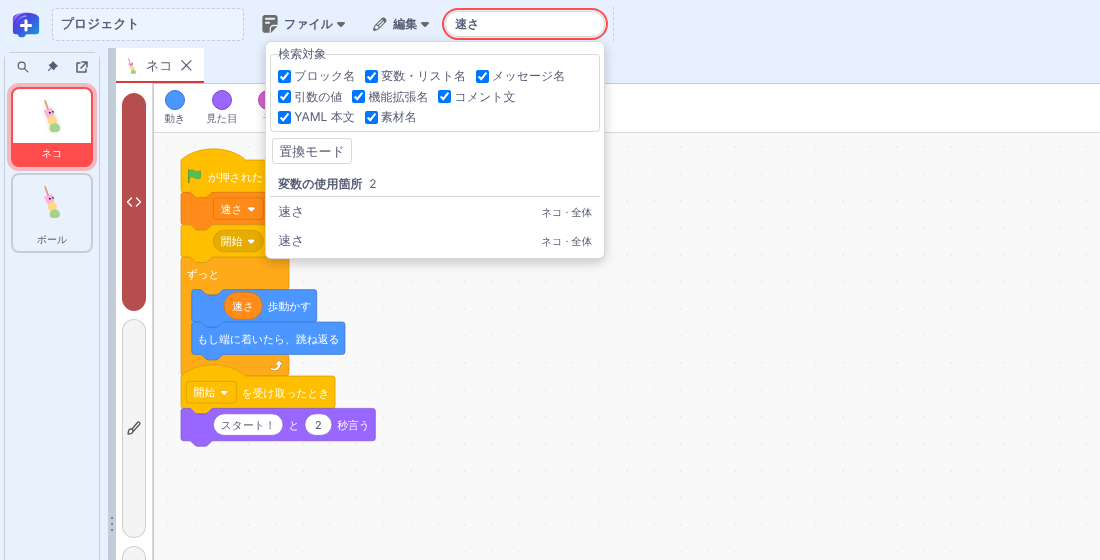
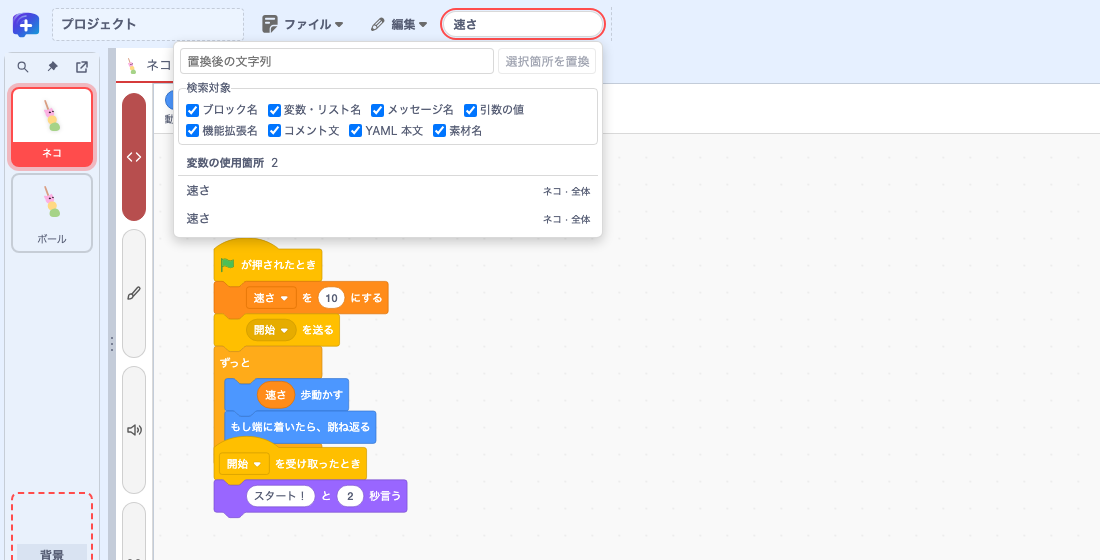
refactor(editor): 検索欄と検索ダイアログを1つのパネルに統合する (#415)
メニューバーの検索欄と編集メニューの「検索と置換」を1つのパネルに統合する。
置換モードのトグルを廃して置換欄を常設し、結果を選ぶと移動したうえでパネルを
開いたままにする。ショートカットは⌘F／⇧⌘F（WindowsはCtrl+F／Ctrl+Shift+F）。

diff --git a/packages/editor-ui/src/project-search-box.tsx b/packages/editor-ui/src/project-search-box.tsx
@@ -26,6 +26,7 @@ type SearchBoxProps = {
     replace(result: SearchResult, value: string): Promise<ReplaceOutcome>;
 };
 
+const pickMatch: [string, string] = ['置換する項目を一覧から選んでください。', 'Select a match in the list to replace.'];
 const replaceMessages: Record<ReplaceOutcome, [string, string]> = {
     applied: ['置換しました。', 'Replaced.'],
     staged: ['YAML の置換内容を確認してください。', 'Review the replacement in the YAML preview.'],
@@ -39,7 +40,6 @@ function ProjectSearchBox({locale, project, getMessages, documents, select, repl
     const japanese = /^ja(?:-|$)/i.test(locale);
     const [query, setQuery] = React.useState('');
     const [open, setOpen] = React.useState(false);
-    const [replaceMode, setReplaceMode] = React.useState(false);
     const [replacement, setReplacement] = React.useState('');
     const [outcome, setOutcome] = React.useState<ReplaceOutcome>();
     const [replacing, setReplacing] = React.useState(false);
@@ -48,8 +48,11 @@ function ProjectSearchBox({locale, project, getMessages, documents, select, repl
     const [active, setActive] = React.useState<SearchResult>();
     const [kinds, setKinds] = React.useState(() => new Set(filters.flatMap(filter => filter.kinds)));
     const input = React.useRef<HTMLInputElement>();
+    const box = React.useRef<HTMLDivElement>();
     const popup = React.useRef<HTMLDivElement>();
+    const replaceField = React.useRef<HTMLInputElement>();
     const replacingMatch = React.useRef(false);
+    const revealing = React.useRef(0);
     const searchYaml = open && kinds.has('yaml') && Boolean(query.trim());
     const yamlDocuments = React.useMemo(() => searchYaml ? documents?.getSearchableYamlDocuments() ?? [] : [],
         [searchYaml, documents, revision]);
@@ -78,9 +81,23 @@ function ProjectSearchBox({locale, project, getMessages, documents, select, repl
             field.select();
         };
         const openReplace = () => {
-            setReplaceMode(true);
             setOpen(true);
-            focusSearch();
+            if (!field.value.trim()) {
+                focusSearch();
+                return;
+            }
+            // The popup may mount in this update, so wait for it before reaching into it.
+            const focusReplacement = (retries: number) => {
+                const target = replaceField.current;
+                if (!target) {
+                    if (retries) win.requestAnimationFrame(() => focusReplacement(retries - 1));
+                    else focusSearch();
+                    return;
+                }
+                target.focus();
+                target.select();
+            };
+            win.requestAnimationFrame(() => focusReplacement(2));
         };
         const disconnectReplace = connectProjectReplaceOpener(project, openReplace);
         const shortcut = (event: KeyboardEvent) => {
@@ -107,7 +124,7 @@ function ProjectSearchBox({locale, project, getMessages, documents, select, repl
         const win = field.ownerDocument.defaultView;
         const place = () => {
             const rect = field.getBoundingClientRect();
-            const width = Math.min(replaceMode ? 430 : 340, win.innerWidth - 16);
+            const width = Math.min(430, win.innerWidth - 16);
             const below = win.innerHeight - rect.bottom - 12;
             const above = rect.top - 12;
             const placeBelow = below >= 160 || below >= above;
@@ -115,20 +132,29 @@ function ProjectSearchBox({locale, project, getMessages, documents, select, repl
             panel.style.left = `${Math.max(8, Math.min(rect.right - width, win.innerWidth - width - 8))}px`;
             panel.style.top = placeBelow ? `${rect.bottom + 4}px` : 'auto';
             panel.style.bottom = placeBelow ? 'auto' : `${win.innerHeight - rect.top + 4}px`;
-            panel.style.maxHeight = `${Math.min(replaceMode ? 450 : 320, placeBelow ? below : above)}px`;
+            panel.style.maxHeight = `${Math.min(450, placeBelow ? below : above)}px`;
         };
         place();
         if (panel.showPopover && !panel.matches(':popover-open')) panel.showPopover();
+        // Revealing a result keeps the panel open, so a press anywhere else has to dismiss it:
+        // blur cannot tell the editor taking focus from the reader turning to something else.
+        const dismiss = (event: Event) => {
+            const target = event.target as Node;
+            if (box.current?.contains(target) || panel.contains(target)) return;
+            close();
+        };
         const observer = new win.ResizeObserver(place);
         observer.observe(field);
+        win.addEventListener('pointerdown', dismiss, true);
         win.addEventListener('resize', place);
         win.addEventListener('scroll', place, true);
         return () => {
             observer.disconnect();
+            win.removeEventListener('pointerdown', dismiss, true);
             win.removeEventListener('resize', place);
             win.removeEventListener('scroll', place, true);
         };
-    }, [show, replaceMode]);
+    }, [show]);
 
     React.useLayoutEffect(() => {
         if (activeIndex >= 0) input.current.ownerDocument.getElementById(optionId(activeIndex))?.scrollIntoView({block: 'nearest'});
@@ -139,12 +165,23 @@ function ProjectSearchBox({locale, project, getMessages, documents, select, repl
         setActive(undefined);
     }
 
+    function reveal(result: SearchResult) {
+        const win = input.current.ownerDocument.defaultView;
+        // Revealing a result moves the editor, and a YAML preview takes focus when it opens. Keep
+        // the panel open through that so the same result is still the one the replacement applies
+        // to, and leave focus wherever the destination put it.
+        revealing.current += 1;
+        select(result);
+        win.setTimeout(() => { revealing.current -= 1; }, 1000);
+    }
+
     function choose(result: SearchResult) {
-        if (replaceMode) {
-            setActive(result);
-            setOutcome(undefined);
-            return;
-        }
+        setActive(result);
+        setOutcome(undefined);
+        reveal(result);
+    }
+
+    function jump(result: SearchResult) {
         close();
         select(result);
     }
@@ -173,8 +210,8 @@ function ProjectSearchBox({locale, project, getMessages, documents, select, repl
         }
     }
 
-    return <div className={styles.field} onBlur={event => {
-        if (!replacingMatch.current && !event.currentTarget.contains(event.relatedTarget) &&
+    return <div ref={box} className={styles.field} onBlur={event => {
+        if (!replacingMatch.current && !revealing.current && !event.currentTarget.contains(event.relatedTarget) &&
             !popup.current?.contains(event.relatedTarget)) close();
     }}>
         <input ref={input} type="search" role="combobox" autoComplete="off" aria-autocomplete="list"
@@ -200,10 +237,10 @@ function ProjectSearchBox({locale, project, getMessages, documents, select, repl
                     event.preventDefault();
                     close();
                 } else if (event.key === 'Tab' && !event.shiftKey && open) {
-                    const firstFilter = popup.current?.querySelector<HTMLInputElement>('input[type=checkbox]');
-                    if (firstFilter) {
+                    const first = popup.current?.querySelector<HTMLElement>('input, button');
+                    if (first) {
                         event.preventDefault();
-                        firstFilter.focus();
+                        first.focus();
                     }
                 } else if (event.key === 'ArrowDown' || event.key === 'ArrowUp') {
                     event.preventDefault();
@@ -216,7 +253,7 @@ function ProjectSearchBox({locale, project, getMessages, documents, select, repl
                     }
                 } else if (event.key === 'Enter' && visible.length) {
                     event.preventDefault();
-                    choose(active ?? visible[0]);
+                    jump(active ?? visible[0]);
                 }
             }} />
         {show && input.current && createPortal(
@@ -224,7 +261,7 @@ function ProjectSearchBox({locale, project, getMessages, documents, select, repl
                 {...(typeof input.current.showPopover === 'function' ? {popover: 'manual'} : {})}
                 onKeyDown={event => {
                     const backToSearch = event.key === 'Tab' && event.shiftKey &&
-                        event.target === popup.current.querySelector('input[type=checkbox]');
+                        event.target === popup.current.querySelector('input, button');
                     if (event.key !== 'Escape' && !backToSearch) return;
                     event.preventDefault();
                     event.stopPropagation();
@@ -237,6 +274,20 @@ function ProjectSearchBox({locale, project, getMessages, documents, select, repl
                         setLimit(limit + pageSize);
                     }
                 }}>
+                <div className={styles.replaceTools}>
+                    <input ref={replaceField} type="text" autoComplete="off" value={replacement}
+                        placeholder={japanese ? '置換後の文字列' : 'Replace with'}
+                        aria-label={japanese ? '置換後の文字列' : 'Replace with'}
+                        onChange={event => {setReplacement(event.currentTarget.value); setOutcome(undefined);}} />
+                    <button type="button" disabled={replacing || proposed === undefined}
+                        onClick={() => void replaceSelected()}>
+                        {active?.kind === 'yaml' ? (japanese ? 'プレビューで置換' : 'Replace in preview') :
+                            (japanese ? '選択箇所を置換' : 'Replace selected match')}
+                    </button>
+                </div>
+                {outcome ? <div className={styles.empty} role="status">{replaceMessages[outcome][japanese ? 0 : 1]}</div> :
+                    replacement && !active ?
+                        <div className={styles.empty} role="status">{pickMatch[japanese ? 0 : 1]}</div> : null}
                 <fieldset className={styles.filters}>
                     <legend>{japanese ? '検索対象' : 'Search in'}</legend>
                     {filters.filter(filter => documents || !filter.kinds.includes('yaml')).map(filter =>
@@ -253,25 +304,6 @@ function ProjectSearchBox({locale, project, getMessages, documents, select, repl
                         </label>
                     )}
                 </fieldset>
-                <div className={styles.replaceTools}>
-                    <button type="button" aria-pressed={replaceMode} onClick={() => {
-                        setReplaceMode(!replaceMode);
-                        setOutcome(undefined);
-                        setActive(undefined);
-                    }}>{japanese ? '置換モード' : 'Replace mode'}</button>
-                    {replaceMode && <>
-                        <input type="text" autoComplete="off" value={replacement}
-                            placeholder={japanese ? '置換後の文字列' : 'Replace with'}
-                            aria-label={japanese ? '置換後の文字列' : 'Replace with'}
-                            onChange={event => {setReplacement(event.currentTarget.value); setOutcome(undefined);}} />
-                        <button type="button" disabled={replacing || proposed === undefined}
-                            onClick={() => void replaceSelected()}>
-                            {active?.kind === 'yaml' ? (japanese ? 'プレビューで置換' : 'Replace in preview') :
-                                (japanese ? '選択箇所を置換' : 'Replace selected match')}
-                        </button>
-                    </>}
-                </div>
-                {replaceMode && outcome && <div className={styles.empty} role="status">{replaceMessages[outcome][japanese ? 0 : 1]}</div>}
                 <div role="listbox" id={listId} aria-label={japanese ? '検索結果' : 'Search results'}>
                     {groups.map(group => <div key={group.kind} role="group" aria-labelledby={`${listId}-${group.kind}`}>
                         <div id={`${listId}-${group.kind}`} className={styles.heading}>{group.title} <span>{group.results.length}</span></div>
@@ -283,7 +315,7 @@ function ProjectSearchBox({locale, project, getMessages, documents, select, repl
                                 aria-selected={result === active} onPointerDown={event => event.preventDefault()}
                                 onClick={() => choose(result)}>
                                 <span>{result.label}</span>
-                                <small>{[name, result.detail, replaceMode && !canEdit(result) &&
+                                <small>{[name, result.detail, !canEdit(result) &&
                                     (japanese ? '閲覧専用' : 'Read only')].filter(Boolean).join(' · ')}</small>
                             </div>;
                         })}

diff --git a/docs/features/index.html b/docs/features/index.html
@@ -442,8 +442,8 @@
 <h2>26. 編集メニューで取り消し・コピーを行う</h2>
 
 <p>最上段の「編集」メニューには、「削除の取り消し」「元に戻す」「繰り返し」「切り取り」「コピー」「貼り付け」「検索と置換」が並びます。各項目にはアイコンとショートカットキーが表示されます。</p>
-<figure class="guide-detail"><a href="images/edit-menu.png"><img src="images/edit-menu.png" width="720" height="420" alt="編集メニュー。削除の取り消し、元に戻すCtrl+Z、繰り返しCtrl+Y、切り取りCtrl+X、コピーCtrl+C、貼り付けCtrl+V、検索と置換が並ぶ。" loading="lazy"></a><figcaption>編集メニュー。操作できない項目は薄く表示されます。</figcaption></figure>
-<ul><li>「元に戻す」「繰り返し」は、操作中のコード画面の履歴に対して働きます。macOSでは「繰り返し」のショートカットは⇧⌘Zです。</li><li>「切り取り」「コピー」は、コード画面で選んだブロックに対して働きます。「貼り付け」は、コピーしたブロックがあるときに選べます。</li><li>「検索と置換」は、<a href="#project-search">作品全体の検索</a>を置換モードで開きます。</li></ul>
+<figure class="guide-detail"><a href="images/edit-menu.png"><img src="images/edit-menu.png" width="720" height="420" alt="編集メニュー。削除の取り消し、元に戻すCtrl+Z、繰り返しCtrl+Y、切り取りCtrl+X、コピーCtrl+C、貼り付けCtrl+V、検索と置換Ctrl+Shift+Fが並ぶ。" loading="lazy"></a><figcaption>編集メニュー。操作できない項目は薄く表示されます。</figcaption></figure>
+<ul><li>「元に戻す」「繰り返し」は、操作中のコード画面の履歴に対して働きます。macOSでは「繰り返し」のショートカットは⇧⌘Zです。</li><li>「切り取り」「コピー」は、コード画面で選んだブロックに対して働きます。「貼り付け」は、コピーしたブロックがあるときに選べます。</li><li>「検索と置換」は、<a href="#project-search">作品全体の検索</a>のパネルを開き、「置換後の文字列」の欄にカーソルを移します。最上段の検索欄と同じパネルです。ショートカットは⇧⌘F（WindowsはCtrl+Shift+F）です。</li></ul>
 <p><a href="https://github.com/kubohiroya/turbowarp-plus-editor/pull/385">編集メニュー</a> · <a href="https://github.com/kubohiroya/turbowarp-plus-editor/pull/399">アイコンとショートカット表示</a></p>
 
 </section>
@@ -452,8 +452,9 @@
 
 <h2>27. 作品全体を検索し、選択箇所を置換する</h2>
 
-<p>最上段の検索欄に語句を入力すると、すべてのスプライトとステージを横断して検索し、結果を種類ごとにまとめて表示します。結果を選ぶと、該当するスプライトのコードや素材が開きます。</p>
-<figure><a href="images/project-search.png"><img src="images/project-search.png" width="1100" height="560" alt="検索欄に速さと入力した結果。検索対象のチェックボックスと置換モードのボタンの下に、変数の使用箇所2件がネコ・全体として表示されている。" loading="lazy"></a><figcaption>「速さ」で検索した例。各結果の右に、スプライト名と変数の範囲が表示されます。</figcaption></figure>
+<p>最上段の検索欄に語句を入力すると、すべてのスプライトとステージを横断して検索し、結果を種類ごとにまとめて表示します。結果を選ぶと、該当するスプライトのコードや素材が開き、パネルはそのまま開いたままになるので、続けて置換できます。Enterキーで選ぶ場合は、移動と同時にパネルを閉じます。</p>
+<p>検索と置換は1つのパネルにまとまっています。⌘F（WindowsはCtrl+F）で検索欄にカーソルが移り、⇧⌘F（WindowsはCtrl+Shift+F）または「編集」メニューの<a href="#edit-menu">「検索と置換」</a>で同じパネルの「置換後の文字列」の欄に移ります。Escapeキーで閉じます。</p>
+<figure><a href="images/project-search.png"><img src="images/project-search.png" width="1100" height="560" alt="検索欄に速さと入力した結果。置換後の文字列の欄と検索対象のチェックボックスの下に、変数の使用箇所2件がネコ・全体として表示されている。" loading="lazy"></a><figcaption>「速さ」で検索した例。各結果の右に、スプライト名と変数の範囲が表示されます。</figcaption></figure>
 <div class="table-scroll" role="region" aria-label="検索対象" tabindex="0">
 <table><caption>「検索対象」で選べる範囲</caption><thead><tr><th scope="col">検索対象</th><th scope="col">結果の見出し</th></tr></thead><tbody>
 <tr><th scope="row">ブロック名</th><td>ブロック</td></tr>
@@ -466,7 +467,7 @@
 <tr><th scope="row">素材名</th><td>コスチューム、背景、音</td></tr>
 </tbody></table></div>
 <h3>選択箇所を置換する</h3>
-<p>「置換モード」を押すと「置換後の文字列」の欄が現れます。結果を一つ選び、「選択箇所を置換」を押すと、その1か所だけを置き換えます。作品全体を一括で置き換える操作はありません。置き換えられない結果には「閲覧専用」と表示されます。</p>
+<p>「置換後の文字列」の欄は、パネルの中に常に表示されています。結果を一つ選び、「選択箇所を置換」を押すと、その1か所だけを置き換えます。作品全体を一括で置き換える操作はありません。置き換えられない結果には「閲覧専用」と表示されます。</p>
 <p>YAML本文の結果では、ボタンが「プレビューで置換」になります。該当する位置を示したプレビューで置換後の内容を確かめ、文書の検証に通った場合に保存されます。置換した内容を作品ファイルに残すには、最後にSB3を保存します。</p>
 <p><a href="https://github.com/kubohiroya/turbowarp-plus-editor/pull/346">スプライトとステージの横断検索</a> · <a href="https://github.com/kubohiroya/turbowarp-plus-editor/pull/402">作品内検索と選択箇所の置換</a></p>
 

diff --git a/packages/editor-ui/src/edit-menu.tsx b/packages/editor-ui/src/edit-menu.tsx
@@ -1,6 +1,6 @@
 import React from 'react';
 import styles from './edit-menu.css';
-import {projectReplaceOpener, projectReplaceShortcut} from './project-search-connections.ts';
+import {isMacPlatform, projectReplaceOpener, projectReplaceShortcut} from './project-search-connections.ts';
 import type {SearchProject} from './project-search.ts';
 
 interface Workspace {
@@ -56,8 +56,8 @@ const shortcutKeys = {undo: 'Z', redo: 'Y', cut: 'X', copy: 'C', paste: 'V'};
 
 function shortcutFor(command: Command, mac: boolean) {
     if (command === 'findAndReplace') {
-        const {label, macLabel, keys} = projectReplaceShortcut;
-        return {label: mac ? macLabel : label, keys};
+        const {label, macLabel, keys, macKeys} = projectReplaceShortcut;
+        return {label: mac ? macLabel : label, keys: mac ? macKeys : keys};
     }
     if (mac && command === 'redo') return {label: '⇧⌘Z', keys: 'Meta+Shift+Z'};
     const key = shortcutKeys[command];
@@ -92,7 +92,7 @@ export function renderEditMenuRestore(label: React.ReactNode, renderIcon: MenuPr
 
 function EditMenu({vm, locale, MenuItem, MenuSection, renderIcon, onRequestClose}: MenuProps) {
     const japanese = /^ja(?:-|$)/i.test(locale);
-    const mac = typeof navigator !== 'undefined' && navigator.platform.startsWith('Mac');
+    const mac = isMacPlatform();
     const context = workspaces.get(vm);
     const openReplace = projectReplaceOpener(vm.runtime);
     return <>{groups.map(group => <MenuSection key={group[0][0]}>

diff --git a/packages/editor-ui/src/project-search-connections.ts b/packages/editor-ui/src/project-search-connections.ts
@@ -81,12 +81,20 @@ export function projectReplaceOpener(project?: SearchProject) {
 
 const replaceKey = 'F';
 
+export function isMacPlatform() {
+    return typeof navigator !== 'undefined' && /^(Mac|iP)/.test(navigator.platform ?? '');
+}
+
+// Search is the platform's own find shortcut, so replace is the shifted form of it: ⇧⌘F on macOS
+// and Ctrl+Shift+F elsewhere.
 export const projectReplaceShortcut = {
     keys: `Control+Shift+${replaceKey}`,
+    macKeys: `Meta+Shift+${replaceKey}`,
     label: `Ctrl+Shift+${replaceKey}`,
-    macLabel: `⌃⇧${replaceKey}`,
+    macLabel: `⇧⌘${replaceKey}`,
     matches(event: KeyboardEvent) {
-        return event.ctrlKey && event.shiftKey && !event.metaKey && !event.altKey && !event.isComposing &&
+        const primary = isMacPlatform() ? event.metaKey && !event.ctrlKey : event.ctrlKey && !event.metaKey;
+        return primary && event.shiftKey && !event.altKey && !event.isComposing &&
             event.key.toUpperCase() === replaceKey;
     }
 };

diff --git a/packages/editor-ui/src/project-search.css b/packages/editor-ui/src/project-search.css
@@ -89,7 +89,6 @@
 }
 
 .replaceTools input { flex: 1 1 100px; }
-.replaceTools button[aria-pressed="true"] { background: var(--looks-light-transparent, #e6dff3); }
 .replaceTools button:disabled { opacity: .55; }
 
 .option {

diff --git a/docs/features/sb3-compatibility.md b/docs/features/sb3-compatibility.md
@@ -79,7 +79,7 @@
 | 24. カテゴリの順序を変え、ブロックを整理する | 使える | 使える | カテゴリ順は再読み込みで初期化。右クリックメニューには操作アイコンが既定で表示される。 |
 | 25. ミニマップとズームで長いコードを移動する | 使える | 使える | Plus配置。ミニマップで移動し、ズームを調整できる。 |
 | 26. 編集メニューで取り消し・コピーを行う | 使える | 使える | 削除の取り消し、元に戻す、繰り返し、切り取り、コピー、貼り付け、検索と置換。 |
-| 27. 作品全体を検索し、選択箇所を置換する | 使える | 使える | ブロック名・変数・メッセージ・引数・拡張名・コメント・素材名を全スプライトとステージで検索できる。置換は選んだ1か所ずつ。YAML本文の検索・置換は対応拡張の文書がある場合。 |
+| 27. 作品全体を検索し、選択箇所を置換する | 使える | 使える | ブロック名・変数・メッセージ・引数・拡張名・コメント・素材名を全スプライトとステージで検索できる。最上段の検索欄と編集メニューの「検索と置換」は同じパネルを開き、検索欄が⌘F（WindowsはCtrl+F）、置換後の文字列への移動が⇧⌘F（WindowsはCtrl+Shift+F）。結果を選ぶとその場所へ移動し、パネルは開いたままなので続けて置換できる。置換は選んだ1か所ずつ。YAML本文の検索・置換は対応拡張の文書がある場合。 |
 | 28. ブロックの値をフォームで編集する | 使えない | 使えない | フォーム対応の拡張を読み込み、その拡張がフォームを登録したブロックで使える。標準ブロックは従来の入力欄で編集する。 |
 | 29. 外部YAMLと作品内の文書・ブロックを使い分ける | 使えない | 使えない | 文書を登録する対応拡張と対象文書を用意すると、提供元が対応する原文・汎用YAMLブロック・専用ブロックを変換できる。外部参照には取得可能なHTTPS、VS Code編集にはローカルのコンパニオンが必要。 |
 | 30. 作品内YAMLをタブに開いてコードと並べる | 使えない | 使えない | 文書を登録する対応拡張と対象文書を用意し、データソースブロックからDockviewのタブに開くと、コードと並べられる。 |
